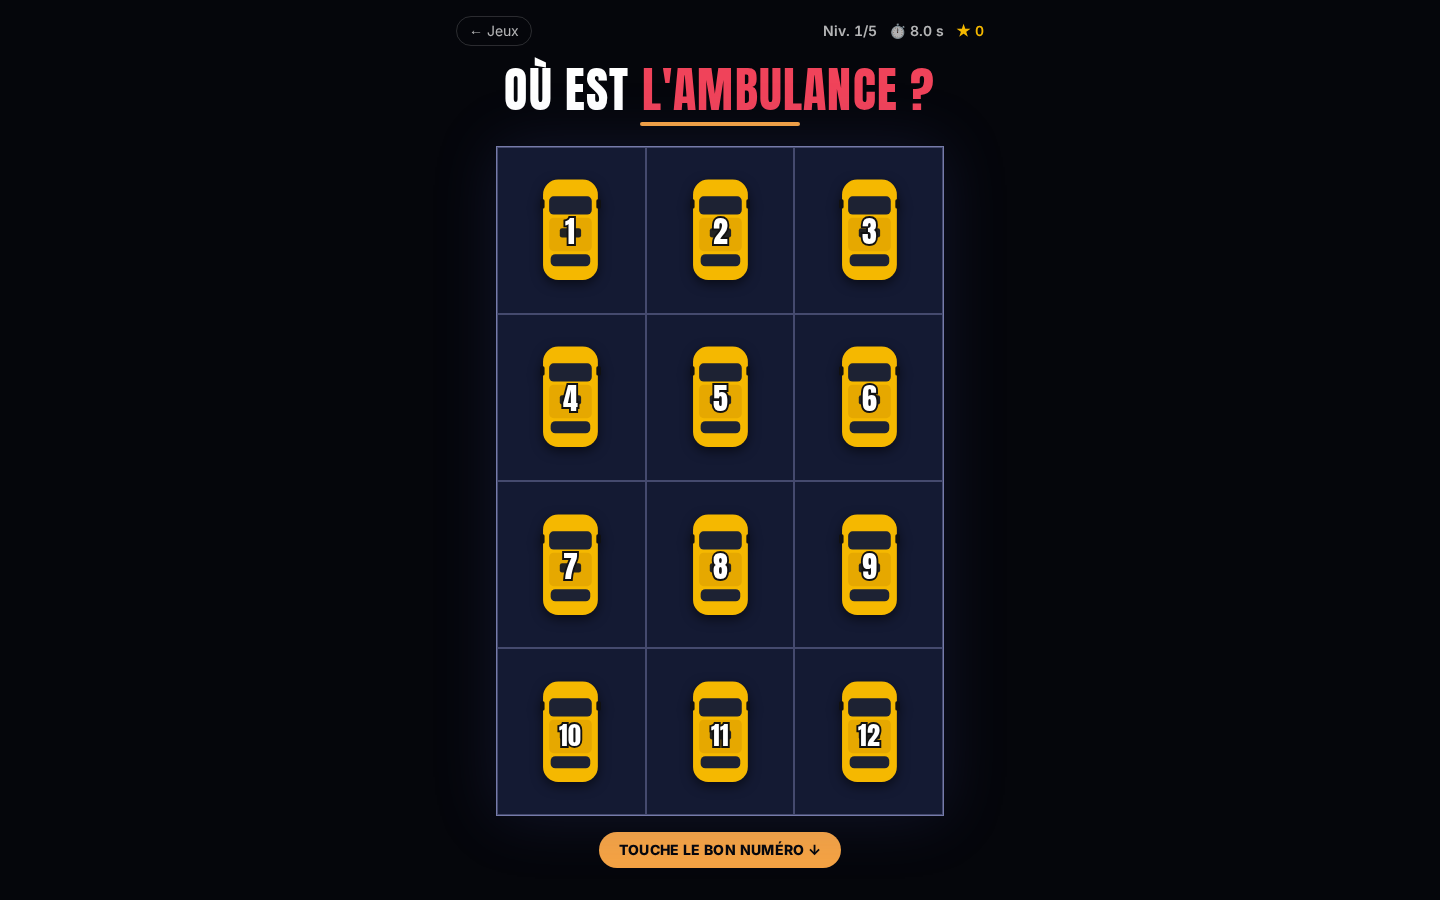
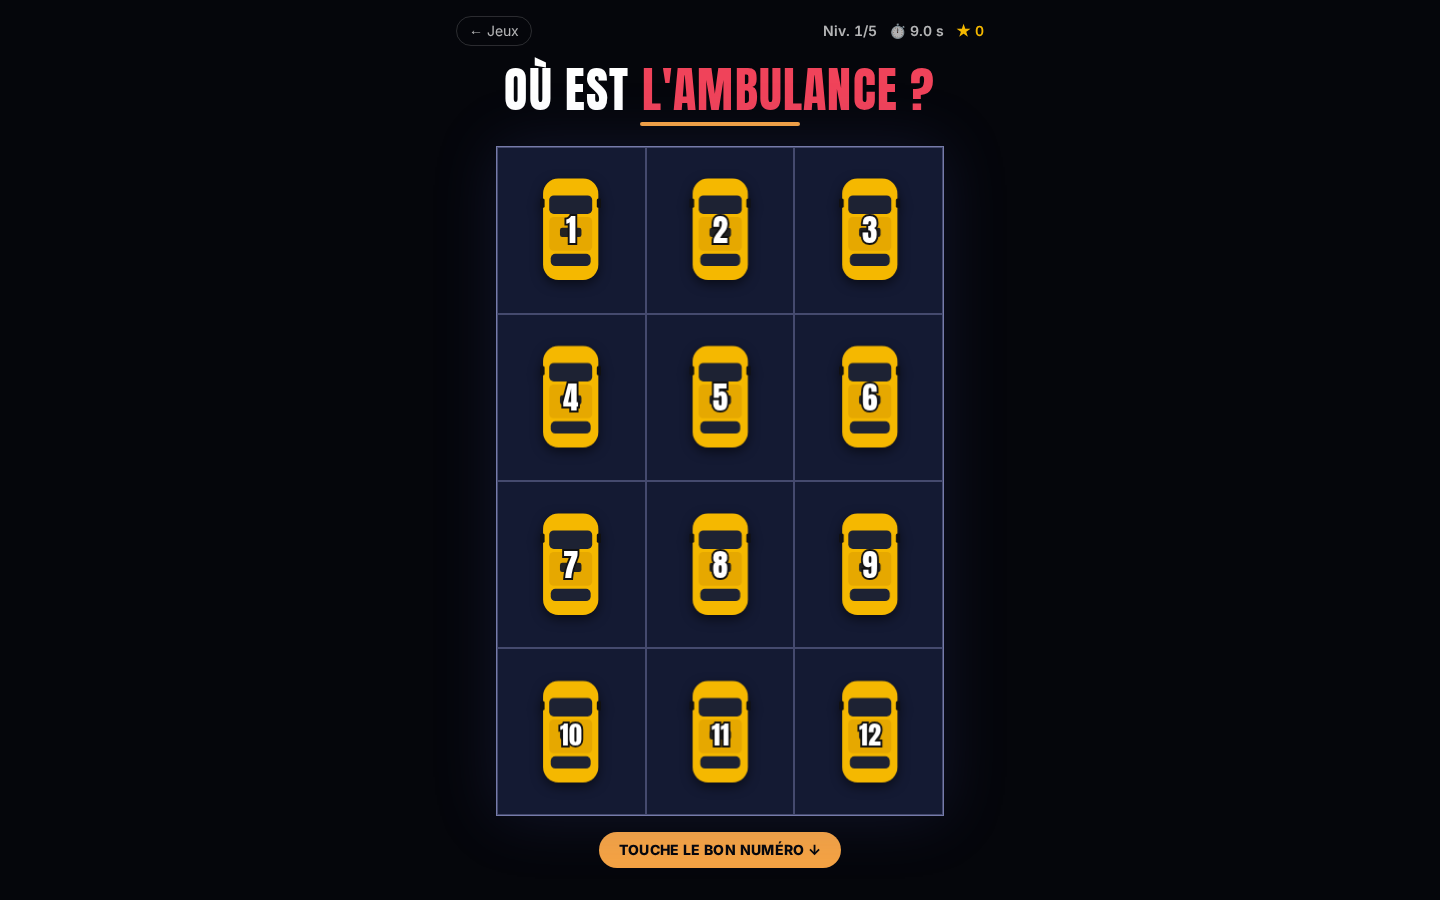
Suis l'ambulance : mélange fluide comme dans la vidéo
- À chaque vague, les 12 voitures bougent : 6 paires voisines s'échangent en même temps
- Chaque paire tourne autour de son milieu, une voiture de chaque côté, sans collision
- Animation continue par transformations directes, sans relayout
- Départ lent puis accélération progressive (au plus 1,8x), courte pause entre les vagues
- Vitesse de base plus rapide à chaque niveau, mélange aléatoire différent à chaque vague
- Tests mis à jour (permutation complète, collisions, courbe de vitesse)

diff --git a/src/games/suis-l-ambulance/logic.ts b/src/games/suis-l-ambulance/logic.ts
@@ -1,51 +1,115 @@
 export const COLS = 3, ROWS = 4, CELLS = COLS * ROWS
+/** Rapport hauteur/largeur d'une case (la grille est légèrement plus haute que large). */
+export const CELL_RATIO = 1.12
 export type Rng = () => number
-export interface Level { niveau: number; vagues: number; pairesParVague: number; dureeMs: number }
+export interface Level { niveau: number; vagues: number; baseMs: number }
+/** Vitesse de base qui augmente modérément ; plus de vagues aux niveaux avancés. */
 export const NIVEAUX: Level[] = [
-  { niveau: 1, vagues: 5, pairesParVague: 1, dureeMs: 900 },
-  { niveau: 2, vagues: 7, pairesParVague: 2, dureeMs: 800 },
-  { niveau: 3, vagues: 9, pairesParVague: 2, dureeMs: 650 },
-  { niveau: 4, vagues: 11, pairesParVague: 3, dureeMs: 550 },
-  { niveau: 5, vagues: 14, pairesParVague: 3, dureeMs: 450 },
+  { niveau: 1, vagues: 6, baseMs: 1000 },
+  { niveau: 2, vagues: 8, baseMs: 900 },
+  { niveau: 3, vagues: 10, baseMs: 810 },
+  { niveau: 4, vagues: 12, baseMs: 730 },
+  { niveau: 5, vagues: 14, baseMs: 660 },
 ]
-export type Pair = [number, number] // indices de cases échangées
-export type Wave = Pair[]
+/** Accélération maximale dans une partie : la dernière vague va 1,8× plus vite que la première. */
+export const ACCEL_MAX = 1.8
+/** Échange : a et b permutent en tournant autour de leur milieu ; dir = sens de rotation (1 ou -1). */
+export interface Swap { a: number; b: number; dir: 1 | -1 }
+export type Wave = Swap[]
 
 export function mulberry32(seed: number): Rng {
   return () => { seed |= 0; seed = (seed + 0x6d2b79f5) | 0; let t = Math.imul(seed ^ (seed >>> 15), 1 | seed)
     t = (t + Math.imul(t ^ (t >>> 7), 61 | t)) ^ t; return ((t ^ (t >>> 14)) >>> 0) / 4294967296 }
 }
-/** Génère une vague de paires disjointes de cases. */
-export function generateWave(pairs: number, rng: Rng = Math.random): Wave {
-  const cells = Array.from({ length: CELLS }, (_, i) => i)
-  for (let i = cells.length - 1; i > 0; i--) { const j = Math.floor(rng() * (i + 1)); [cells[i], cells[j]] = [cells[j], cells[i]] }
-  const w: Wave = []; for (let p = 0; p < Math.min(pairs, CELLS / 2); p++) w.push([cells[2 * p], cells[2 * p + 1]])
-  return w
+export function cellXY(cell: number) { return { col: cell % COLS, row: Math.floor(cell / COLS) } }
+
+/** Durée d'une vague (ms) : lente au début, accélère progressivement (ease-in), bornée par ACCEL_MAX. */
+export function waveDuration(level: Level, i: number) {
+  const p = level.vagues <= 1 ? 0 : i / (level.vagues - 1)
+  return Math.round(level.baseMs / (1 + (ACCEL_MAX - 1) * Math.pow(p, 1.3)))
 }
-/** Génère le mélange ; garantit que l'ambulance bouge au moins dans ~1 vague sur 2. */
-export function generateShuffle(level: Level, start: number, rng: Rng = Math.random): Wave[] {
-  const waves: Wave[] = []; let amb = start
-  for (let i = 0; i < level.vagues; i++) {
-    let w = generateWave(level.pairesParVague, rng)
-    if (i % 2 === 0 && !w.some(([a, b]) => a === amb || b === amb)) {
-      const other = w[0][0] === amb ? w[0][1] : w[0][0] === w[0][1] ? 0 : w[0][1]
-      w = [[amb, other === amb ? (amb + 1) % CELLS : other], ...w.slice(1).filter(([a, b]) => a !== amb && b !== amb && a !== other && b !== other)]
+/** Pause naturelle entre deux vagues. */
+export function pauseAfter(level: Level, i: number) { return Math.round(waveDuration(level, i) * 0.12) }
+
+export const easeInOut = (t: number) => (t < 0.5 ? 4 * t * t * t : 1 - Math.pow(-2 * t + 2, 3) / 2)
+
+/** Écart latéral (en largeur de case) quand les deux voitures d'une paire se croisent. */
+export const SIDE = 0.27
+/** Position (unités de largeur de case) d'une voiture au temps t∈[0,1] : demi-ellipse autour du milieu de la paire.
+ *  Les deux voitures d'une paire passent chacune d'un côté (rotation rigide de 180°). */
+export function swapPoint(from: number, to: number, dir: 1 | -1, t: number) {
+  const A = cellXY(from), B = cellXY(to)
+  const ax = A.col, ay = A.row * CELL_RATIO, bx = B.col, by = B.row * CELL_RATIO
+  const cx = (ax + bx) / 2, cy = (ay + by) / 2
+  const hx = ax - cx, hy = ay - cy, L = Math.hypot(hx, hy) || 1
+  const ux = hx / L, uy = hy / L, px = -uy, py = ux
+  const th = Math.PI * easeInOut(t)
+  const along = L * Math.cos(th), side = SIDE * Math.sin(th) * dir
+  return { x: cx + ux * along + px * side, y: cy + uy * along + py * side }
+}
+/** Inclinaison (degrés) : penchée aux quarts du trajet, droite au départ, au croisement et à l'arrivée. */
+export function tilt(from: number, to: number, dir: 1 | -1, t: number) {
+  const e = easeInOut(t)
+  // Échange horizontal : la voiture se tourne dans le sens de la marche (de profil au croisement), sinon elles se chevaucheraient.
+  if (cellXY(from).row === cellXY(to).row) return (cellXY(to).col > cellXY(from).col ? 1 : -1) * 90 * Math.sin(Math.PI * e)
+  return dir * 28 * Math.sin(2 * Math.PI * e)
+}
+
+/** Distance minimale entre centres de voitures pendant une vague. */
+export function minGap(w: Wave, samples = 24) {
+  let min = Infinity
+  for (let s = 0; s <= samples; s++) {
+    const t = s / samples
+    const pts: { x: number; y: number }[] = []
+    for (let c = 0; c < CELLS; c++) {
+      const sw = w.find(x => x.a === c || x.b === c)
+      if (sw) pts.push(swapPoint(c, sw.a === c ? sw.b : sw.a, sw.dir, t))
+      else { const { col, row } = cellXY(c); pts.push({ x: col, y: row * CELL_RATIO }) }
     }
-    waves.push(w); amb = applyWave(amb, w)
+    for (let i = 0; i < pts.length; i++) for (let j = i + 1; j < pts.length; j++)
+      min = Math.min(min, Math.hypot(pts[i].x - pts[j].x, pts[i].y - pts[j].y))
   }
-  return waves
+  return min
 }
-/** Nouvelle case d'une voiture située en `cell` après la vague. */
+export const SAFE_GAP = 0.45
+
+/** Tous les pavages de la grille 3x4 par 6 paires voisines (11 pavages). */
+export const TILINGS: [number, number][][] = (() => {
+  const out: [number, number][][] = []
+  const rec = (used: boolean[], acc: [number, number][]) => {
+    const c = used.indexOf(false); if (c < 0) { out.push([...acc]); return }
+    const { col, row } = cellXY(c)
+    for (const n of [col + 1 < COLS ? c + 1 : -1, row + 1 < ROWS ? c + COLS : -1]) {
+      if (n < 0 || used[n]) continue
+      used[c] = used[n] = true; acc.push([c, n]); rec(used, acc); acc.pop(); used[c] = used[n] = false
+    }
+  }
+  rec(Array(CELLS).fill(false), []); return out
+})()
+
+/** Une vague = les 12 voitures bougent : 6 échanges simultanés sans collision. */
+export function generateWave(rng: Rng = Math.random, avoid?: string): Wave {
+  for (let k = 0; k < 500; k++) {
+    const tiling = TILINGS[Math.floor(rng() * TILINGS.length)]
+    const w: Wave = tiling.map(([x, y]) => (rng() < 0.5 ? { a: x, b: y, dir: rng() < 0.5 ? 1 : -1 } : { a: y, b: x, dir: rng() < 0.5 ? 1 : -1 }))
+    if (avoid && tilingKey(w) === avoid && k < 50) continue
+    if (minGap(w) >= SAFE_GAP) return w
+  }
+  throw new Error('aucune vague sans collision')
+}
+export const tilingKey = (w: Wave) => w.map(s => [Math.min(s.a, s.b), Math.max(s.a, s.b)].join('-')).sort().join(',')
 export function applyWave(cell: number, w: Wave): number {
-  for (const [a, b] of w) { if (cell === a) return b; if (cell === b) return a }
+  for (const { a, b } of w) { if (cell === a) return b; if (cell === b) return a }
   return cell
 }
-/** positions[carId] = case ; applique une vague à toutes les voitures. */
-export function applyWaveToAll(positions: number[], w: Wave) { return positions.map(c => applyWave(c, w)) }
-export function finalCell(start: number, waves: Wave[]) { return waves.reduce(applyWave, start) }
-export function cellXY(cell: number) { return { col: cell % COLS, row: Math.floor(cell / COLS) } }
+/** Mélange d'un niveau : à chaque vague un pavage différent du précédent, toutes les voitures bougent. */
+export function generateShuffle(level: Level, _start: number, rng: Rng = Math.random): Wave[] {
+  const waves: Wave[] = []
+  for (let i = 0; i < level.vagues; i++) waves.push(generateWave(rng, waves[i - 1] && tilingKey(waves[i - 1])))
+  return waves
+}
+export const applyWaveToAll = (positions: number[], w: Wave) => positions.map(c => applyWave(c, w))
+export const finalCell = (start: number, waves: Wave[]) => waves.reduce(applyWave, start)
 export function scoreFor(level: Level, reactionMs: number) {
-  const base = 100 * level.niveau
-  const bonus = Math.max(0, Math.round(50 * (1 - reactionMs / 10000)))
-  return base + bonus
+  return 100 * level.niveau + Math.max(0, Math.round(50 * (1 - reactionMs / 10000)))
 }

diff --git a/src/games/suis-l-ambulance/Game.tsx b/src/games/suis-l-ambulance/Game.tsx
@@ -1,8 +1,11 @@
 import { useEffect, useMemo, useRef, useState } from 'react'
-import { motion, AnimatePresence } from 'motion/react'
+import { motion, AnimatePresence, animate } from 'motion/react'
 import { Link } from 'react-router-dom'
 import { Car } from './Car'
-import { CELLS, COLS, ROWS, NIVEAUX, cellXY, generateShuffle, applyWaveToAll, scoreFor, type Wave } from './logic'
+import { CELLS, COLS, ROWS, NIVEAUX, CELL_RATIO, cellXY, generateShuffle, applyWaveToAll, applyWave, scoreFor, swapPoint, tilt, waveDuration, pauseAfter, type Wave } from './logic'
+
+const xf = (x: number, y: number, r = 0) => `translate(${x * 100}%, ${(y / CELL_RATIO) * 100}%) rotate(${r}deg)`
+const cellXf = (c: number) => { const { col, row } = cellXY(c); return xf(col, row * CELL_RATIO) }
 import { loadScores, saveScore, clearScores, type ScoreEntry } from '../../lib/leaderboard'
 
 const SLUG = 'suis-l-ambulance'
@@ -15,7 +18,7 @@ export default function Game() {
   const [lvIdx, setLvIdx] = useState(0)
   const [ambCar, setAmbCar] = useState(0)
   const [pos, setPos] = useState<number[]>(() => Array.from({ length: CELLS }, (_, i) => i))
-  const [prev, setPrev] = useState<number[]>(pos)
+  const carEls = useRef<(HTMLDivElement | null)[]>([])
   const [vague, setVague] = useState(0)
   const [waves, setWaves] = useState<Wave[]>([])
   const [score, setScore] = useState(0)
@@ -33,7 +36,7 @@ export default function Game() {
   const lancerNiveau = (idx: number) => {
     const base = Array.from({ length: CELLS }, (_, i) => i)
     const amb = Math.floor(Math.random() * CELLS)
-    setLvIdx(idx); setAmbCar(amb); setPos(base); setPrev(base); setVague(0); setChoisi(null)
+    setLvIdx(idx); setAmbCar(amb); setPos(base); setVague(0); setChoisi(null)
     setWaves(generateShuffle(NIVEAUX[idx], amb)); setPhase('montre')
   }
   const demarrer = () => { localStorage.setItem('jeux-reflexion:nom', nom.trim()); setScore(0); setDebut(Date.now()); setNow(Date.now()); lancerNiveau(0) }
@@ -44,7 +47,21 @@ export default function Game() {
     else if (phase === 'sirene') t = window.setTimeout(() => setPhase('melange'), 700)
     else if (phase === 'melange') {
       if (vague >= waves.length) t = window.setTimeout(() => { choixDebut.current = Date.now(); setPhase('choix') }, 350)
-      else t = window.setTimeout(() => { setPrev(pos); setPos(p => applyWaveToAll(p, waves[vague])); setVague(v => v + 1) }, vague === 0 ? 200 : level.dureeMs + 60)
+      else {
+        // Une vague : les 12 voitures roulent en même temps, transformées directement (pas de relayout React).
+        const w = waves[vague], d = waveDuration(level, vague)
+        let ctl: ReturnType<typeof animate> | undefined
+        t = window.setTimeout(() => {
+          ctl = animate(0, 1, { duration: d / 1000, ease: 'linear', onUpdate: (k) => {
+            pos.forEach((cell, car) => {
+              const el = carEls.current[car]; const sw = w.find(x => x.a === cell || x.b === cell); if (!el || !sw) return
+              const p = swapPoint(cell, applyWave(cell, w), sw.dir, k)
+              el.style.transform = xf(p.x, p.y, tilt(cell, applyWave(cell, w), sw.dir, k))
+            })
+          }, onComplete: () => { setPos(p => applyWaveToAll(p, w)); setVague(v => v + 1) } })
+        }, vague === 0 ? 250 : pauseAfter(level, vague - 1))
+        return () => { clearTimeout(t); ctl?.stop() }
+      }
     } else if (phase === 'bravo') t = window.setTimeout(() => lancerNiveau(lvIdx + 1), 1300)
     return () => clearTimeout(t)
   }, [phase, vague]) // eslint-disable-line
@@ -94,26 +111,16 @@ export default function Game() {
             style={{ top: `calc(${pct(ambCell).top} + ${50 / ROWS}% - 8px)` }} animate={{ x: [0, 5, 0] }} transition={{ repeat: Infinity, duration: 0.6 }} />
         )}
         {pos.map((cell, car) => {
-          const from = pct(prev[car]), to = pct(cell)
-          const moving = phase === 'melange' && prev[car] !== cell
-          const a = cellXY(prev[car]), b = cellXY(cell)
-          const dx = (b.col - a.col) * (100 / COLS), dy = (b.row - a.row) * (100 / ROWS) * 1.12
-          let heading = (Math.atan2(dy, dx) * 180) / Math.PI + 90
-          if (heading > 90) heading -= 180; if (heading < -90) heading += 180
-          const midL = `calc((${from.left} + ${to.left}) / 2 + ${(-dy * 0.18).toFixed(2)}%)`
-          const midT = `calc((${from.top} + ${to.top}) / 2 + ${(dx * 0.18).toFixed(2)}%)`
           const isAmb = car === ambCar
           const numero = phase === 'choix' || phase === 'perdu' ? cell + 1 : undefined
           return (
-            <motion.button key={car} type="button" aria-label={numero ? `Voiture ${numero}` : 'Voiture'}
+            <div key={car} ref={el => { carEls.current[car] = el }} className="absolute left-0 top-0 will-change-transform"
+              style={{ width: `${100 / COLS}%`, height: `${100 / ROWS}%`, transform: cellXf(cell), zIndex: isAmb ? 2 : 1 }}>
+            <motion.button type="button" aria-label={numero ? `Voiture ${numero}` : 'Voiture'}
               onClick={() => choisir(car)} disabled={phase !== 'choix' || choisi !== null}
-              className="absolute flex items-center justify-center p-[3%] outline-none"
-              style={{ width: `${100 / COLS}%`, height: `${100 / ROWS}%`, zIndex: moving ? 5 : 1 }}
-              initial={false}
-              animate={moving ? { left: [from.left, midL, to.left], top: [from.top, midT, to.top], rotate: [0, heading, 0] } : { left: to.left, top: to.top, rotate: 0 }}
-              transition={moving ? { duration: level.dureeMs / 1000, ease: 'easeInOut', times: [0, 0.5, 1] } : { duration: 0 }}
+              className="flex h-full w-full items-center justify-center outline-none"
               whileTap={phase === 'choix' ? { scale: 0.9 } : undefined}>
-              <div className="relative h-[78%]">
+              <div className="relative h-[66%]">
                 {isAmb && phase === 'montre' && (
                   <motion.div className="absolute -inset-5 rounded-full blur-xl" animate={{ backgroundColor: ['rgba(240,67,90,.75)', 'rgba(47,107,255,.6)', 'rgba(240,67,90,.75)'], scale: [1, 1.25, 1] }} transition={{ repeat: Infinity, duration: 0.8 }} />
                 )}
@@ -128,6 +135,7 @@ export default function Game() {
                 )}
               </div>
             </motion.button>
+            </div>
           )
         })}
 

diff --git a/src/games/suis-l-ambulance/logic.test.ts b/src/games/suis-l-ambulance/logic.test.ts
@@ -1,42 +1,61 @@
 import { describe, it, expect } from 'vitest'
-import { generateWave, generateShuffle, applyWave, applyWaveToAll, finalCell, mulberry32, NIVEAUX, CELLS, scoreFor } from './logic'
+import { TILINGS, tilingKey, SIDE, generateWave, generateShuffle, applyWave, applyWaveToAll, finalCell, mulberry32, NIVEAUX, CELLS, scoreFor, waveDuration, minGap, SAFE_GAP, swapPoint, ACCEL_MAX, cellXY, CELL_RATIO } from './logic'
 import { sortScores } from '../../lib/leaderboard'
-describe('logique Suis l\'ambulance', () => {
-  it('une vague contient des paires disjointes et valides', () => {
+const sig = (ws: ReturnType<typeof generateShuffle>) => ws.map(w => w.map(s => `${s.a}-${s.b}`).join(',')).join('|')
+
+describe('Suis l\'ambulance — mélange', () => {
+  it('11 pavages de la grille en 6 paires voisines', () => {
+    expect(TILINGS).toHaveLength(11)
+    TILINGS.forEach(tl => { const f = tl.flat(); expect(new Set(f).size).toBe(CELLS); tl.forEach(([a, b]) => { const A = cellXY(a), B = cellXY(b); expect(Math.abs(A.col - B.col) + Math.abs(A.row - B.row)).toBe(1) }) })
+  })
+  it('chaque vague : permutation complète, aucune voiture immobile, aucune collision', () => {
     const rng = mulberry32(42)
-    for (let k = 0; k < 200; k++) {
-      const w = generateWave(3, rng); const flat = w.flat()
-      expect(new Set(flat).size).toBe(flat.length)
-      flat.forEach(c => { expect(c).toBeGreaterThanOrEqual(0); expect(c).toBeLessThan(CELLS) })
-      w.forEach(([a, b]) => expect(a).not.toBe(b))
+    for (let k = 0; k < 150; k++) {
+      const w = generateWave(rng); expect(w).toHaveLength(6)
+      const pos = applyWaveToAll(Array.from({ length: CELLS }, (_, i) => i), w)
+      pos.forEach((p, i) => expect(p).not.toBe(i))
+      expect([...pos].sort((a, b) => a - b)).toEqual(Array.from({ length: CELLS }, (_, i) => i))
+      expect(minGap(w)).toBeGreaterThanOrEqual(SAFE_GAP)
     }
   })
-  it('les positions restent une permutation après le mélange', () => {
-    const rng = mulberry32(7); let pos = Array.from({ length: CELLS }, (_, i) => i)
-    for (const w of generateShuffle(NIVEAUX[4], 9, rng)) pos = applyWaveToAll(pos, w)
-    expect([...pos].sort((a, b) => a - b)).toEqual(Array.from({ length: CELLS }, (_, i) => i))
+  it('trajectoire continue : départ et arrivée exacts, pas de saut', () => {
+    const p0 = swapPoint(0, 3, 1, 0), p1 = swapPoint(0, 3, 1, 1), B = cellXY(3)
+    expect(p0.x).toBeCloseTo(0); expect(p0.y).toBeCloseTo(0)
+    expect(p1.x).toBeCloseTo(B.col); expect(p1.y).toBeCloseTo(B.row * CELL_RATIO)
+    for (let s = 0; s < 50; s++) { const a = swapPoint(0, 3, 1, s / 50), b = swapPoint(0, 3, 1, (s + 1) / 50); expect(Math.hypot(a.x - b.x, a.y - b.y)).toBeLessThan(0.15) }
   })
-  it('finalCell suit bien l\'ambulance', () => {
-    expect(applyWave(2, [[2, 5]])).toBe(5)
-    expect(finalCell(0, [[[0, 3]], [[3, 11]], [[4, 6]]])).toBe(11)
+  it('les deux voitures d\'une paire se croisent de part et d\'autre', () => {
+    const a = swapPoint(0, 3, 1, 0.5), b = swapPoint(3, 0, 1, 0.5)
+    expect(Math.hypot(a.x - b.x, a.y - b.y)).toBeCloseTo(2 * SIDE)
   })
-  it('chaque niveau génère le bon nombre de vagues sans doublon', () => {
+  it('l\'ambulance bouge à chaque vague et finalCell la suit', () => {
+    const ws = generateShuffle(NIVEAUX[4], 9, mulberry32(7)); let amb = 9
+    for (const w of ws) { const n = applyWave(amb, w); expect(n).not.toBe(amb); amb = n }
+    expect(amb).toBe(finalCell(9, ws))
+  })
+  it('mélanges différents entre niveaux, entre parties, et pavage changé à chaque vague', () => {
+    const sigs = NIVEAUX.map(lv => sig(generateShuffle(lv, 4, mulberry32(lv.niveau * 99))))
+    expect(new Set(sigs).size).toBe(NIVEAUX.length)
+    expect(sig(generateShuffle(NIVEAUX[2], 4, mulberry32(1)))).not.toBe(sig(generateShuffle(NIVEAUX[2], 4, mulberry32(2))))
+    const ws = generateShuffle(NIVEAUX[4], 0, mulberry32(5))
+    for (let i = 1; i < ws.length; i++) expect(tilingKey(ws[i])).not.toBe(tilingKey(ws[i - 1]))
+  })
+})
+describe('Suis l\'ambulance — vitesse', () => {
+  it('accélère progressivement dans un niveau, borné à ACCEL_MAX', () => {
     for (const lv of NIVEAUX) {
-      const ws = generateShuffle(lv, 3, mulberry32(lv.niveau))
-      expect(ws).toHaveLength(lv.vagues)
-      ws.forEach(w => { const f = w.flat(); expect(new Set(f).size).toBe(f.length) })
+      const ds = Array.from({ length: lv.vagues }, (_, i) => waveDuration(lv, i))
+      for (let i = 1; i < ds.length; i++) expect(ds[i]).toBeLessThanOrEqual(ds[i - 1])
+      expect(ds[0] / ds[ds.length - 1]).toBeLessThanOrEqual(ACCEL_MAX + 0.01)
+      expect(ds[0] / ds[ds.length - 1]).toBeGreaterThan(1.5)
+      expect(Math.min(...ds)).toBeGreaterThanOrEqual(350)
     }
   })
-  it('l\'ambulance bouge pendant le mélange', () => {
-    for (let s = 0; s < 30; s++) {
-      const ws = generateShuffle(NIVEAUX[0], s % CELLS, mulberry32(s))
-      expect(ws.some(w => w.flat().length > 0)).toBe(true)
-      expect(ws[0].some(([a, b]) => a === s % CELLS || b === s % CELLS)).toBe(true)
-    }
+  it('la vitesse de base augmente modérément de niveau en niveau', () => {
+    for (let i = 1; i < NIVEAUX.length; i++) { const r = NIVEAUX[i - 1].baseMs / NIVEAUX[i].baseMs; expect(r).toBeGreaterThan(1); expect(r).toBeLessThan(1.25) }
   })
   it('score et classement', () => {
     expect(scoreFor(NIVEAUX[0], 0)).toBe(150)
-    expect(scoreFor(NIVEAUX[2], 20000)).toBe(300)
     const s = sortScores([{ nom: 'A', score: 10, niveau: 1, temps: 5, date: 0 }, { nom: 'B', score: 30, niveau: 2, temps: 9, date: 0 }, { nom: 'C', score: 30, niveau: 2, temps: 4, date: 0 }])
     expect(s.map(e => e.nom)).toEqual(['C', 'B', 'A'])
   })
